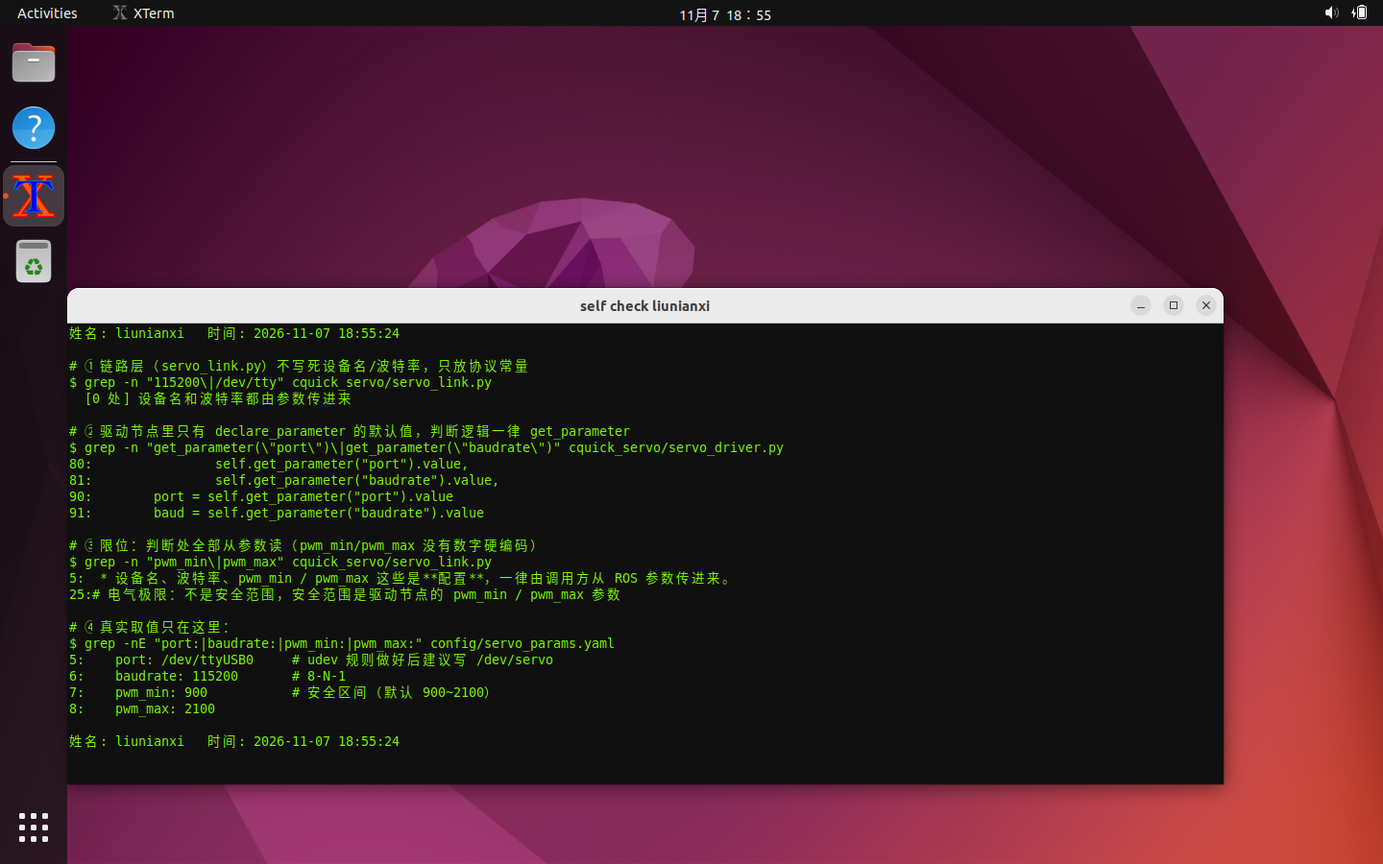
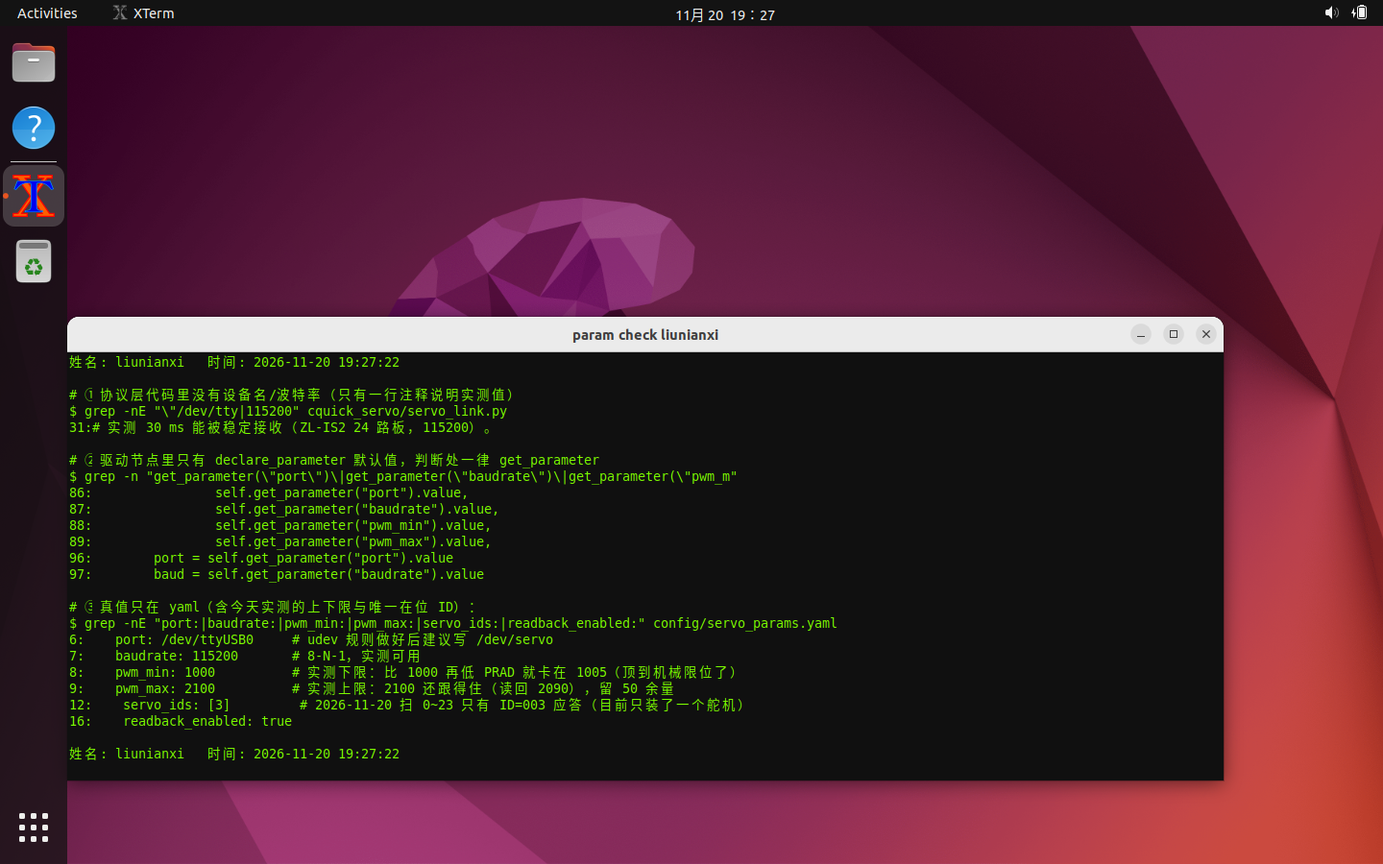
feat(Week3,4): 刘年玺 真机联调通过 —— 帧粘连修复 + PRAD 闭环 + 真机截图与 bag
- servo_link.py: 加 MIN_FRAME_GAP=0.03，修复两条指令粘连导致板子只执行第一条（真机最大 bug）
- servo_driver.py: 加 readback_enabled / min_duration_ms（固件忽略 T<1000 的指令）
- servo_params.yaml: 写实测值（pwm 1000~2100、servo_ids [3]、115200、readback 开）
- 新增真机截图：01_*（4 张，含电池 7.15V）、03_ID扫描；02_* 全部换真机版
- bag/run1 重录（真机 5+5 条，回放复现 3 帧）
- README/调试记录：补真机全过程与两条被推翻的旧结论

Changed region(s): [[0.0312, 0.3111, 0.9062, 0.9333], [0.5, 0.0, 0.5625, 0.0311]]

diff --git a/电控组/Week3,4/liunianxi/src/cquick_servo/cquick_servo/servo_driver.py b/电控组/Week3,4/liunianxi/src/cquick_servo/cquick_servo/servo_driver.py
@@ -41,8 +41,14 @@ class ServoDriver(Node):
         self.declare_parameter("pwm_min", 900)
         self.declare_parameter("pwm_max", 2100)
         self.declare_parameter("default_duration_ms", 800)
+        # 真机实测（ZL-IS2 + 总线舵机）：T<1000 的移动指令会被固件直接忽略，
+        # 舵机一动不动、PRAD 停在原值。这里统一抬到下限，别让上层悄悄失效。
+        self.declare_parameter("min_duration_ms", 1000)
         self.declare_parameter("servo_ids", [1, 2, 3, 4, 5, 6])
         self.declare_parameter("startup_reset", True)
+        # 有些板子的“用户/调试”口只执行不回包（实测 ZL-IS2 + STM32 VCP 即如此），
+        # 此时把 readback_enabled 置 false：动作照发，result 用 ok(no_readback)，不做 PRAD 校验
+        self.declare_parameter("readback_enabled", True)
 
         # ---------- ② 参数校验：不注册这个回调，100000 也能进得去 ----------
         self.add_on_set_parameters_callback(self._on_param_set)
@@ -162,6 +168,16 @@ class ServoDriver(Node):
             return f"duration_ms={cmd.duration_ms} 必须为正"
         return None
 
+    def _effective_duration(self, wanted_ms: int, log: bool = True) -> int:
+        """把 duration 抬到固件真正接受的下限（ZL-IS2: 1000 ms）。"""
+        floor_ms = int(self.get_parameter("min_duration_ms").value)
+        value = max(int(wanted_ms), floor_ms)
+        if value != int(wanted_ms) and log:
+            self.get_logger().warn(
+                f"duration_ms={wanted_ms} 低于固件下限 {floor_ms}，已抬到 {value}"
+            )
+        return value
+
     # ------------------------------------------------------------- 底层发送
     def _send_to_hardware(self, cmd: ServoCommand) -> bool:
         """Action 和 /servo/command 都走这一个函数——bag 回放才对得上。"""
@@ -172,9 +188,10 @@ class ServoDriver(Node):
             if int(cmd.id) not in self._torque_on_done:
                 self._link.torque_on(int(cmd.id))   # 第一次动作之前必须 PULR
                 self._torque_on_done.add(int(cmd.id))
-            self._link.move(int(cmd.id), int(cmd.pwm), int(cmd.duration_ms))
+            duration = self._effective_duration(int(cmd.duration_ms))
+            self._link.move(int(cmd.id), int(cmd.pwm), duration)
             self.get_logger().info(
-                f"发送 #{int(cmd.id):03d}P{int(cmd.pwm)}T{int(cmd.duration_ms)}!"
+                f"发送 #{int(cmd.id):03d}P{int(cmd.pwm)}T{duration}!"
             )
             # 发出去就记一条 state：bag 里 /servo/state 才有东西可对账
             self._publish_state(cmd, 0, True, "sent")
@@ -258,7 +275,7 @@ class ServoDriver(Node):
             return result
 
         # ---------- 循环发 feedback，同时每轮检查取消 ----------
-        duration_s = max(int(cmd.duration_ms), 1) / 1000.0
+        duration_s = self._effective_duration(int(cmd.duration_ms), log=False) / 1000.0
         t0 = time.monotonic()
         # 起始点：能读到就用回读，读不到/读到离谱值就当中立位
         start_pwm = self._read_pwm(int(cmd.id))
@@ -305,7 +322,8 @@ class ServoDriver(Node):
 
         # ---------- 收尾：读 PRAD 校验 ----------
         actual = 0
-        if goal_handle.request.verify_on_finish:
+        readback_enabled = bool(self.get_parameter("readback_enabled").value)
+        if goal_handle.request.verify_on_finish and readback_enabled:
             time.sleep(0.15)   # 舵机走到位再读，别在运动末尾抢读（真机也一样）
             actual = self._read_pwm(int(cmd.id))
         result.prad_actual = int(actual)

diff --git a/电控组/Week3,4/liunianxi/src/cquick_servo/cquick_servo/servo_link.py b/电控组/Week3,4/liunianxi/src/cquick_servo/cquick_servo/servo_link.py
@@ -10,6 +10,7 @@ from __future__ import annotations
 
 import re
 import threading
+import time
 from typing import Optional
 
 import serial
@@ -26,8 +27,12 @@ VERB_PULK = "PULK"    # 卸力（断电前必发）
 PWM_ELECTRIC_MIN = 500
 PWM_ELECTRIC_MAX = 2500
 
+# 总线帧间隔：连发两条（如 PULR 紧跟 P）时，固件只执行第一条、丢掉后面的，
+# 实测 30 ms 能被稳定接收（ZL-IS2 24 路板，115200）。
+MIN_FRAME_GAP = 0.03
+
 _PRAD_RE = re.compile(r"#?\s*(\d{1,3})\s*P\s*(\d{3,4})")
-_PID_RE = re.compile(r"#?\s*(\d{1,3})\s*!")
+_PID_RE = re.compile(r"#?\s*(\d{1,3})")
 
 
 def build_move(frame_id: int, pwm: int, duration_ms: int) -> str:
@@ -79,6 +84,7 @@ class SerialLink:
         self.baudrate = baudrate
         self.timeout = timeout
         self._lock = threading.Lock()
+        self._last_write = 0.0
         self._ser = serial.Serial(
             port=port,
             baudrate=baudrate,
@@ -112,8 +118,16 @@ class SerialLink:
         )
 
     # ---------- 写 ----------
+    def _respect_gap(self) -> None:
+        """保证两条指令之间至少 MIN_FRAME_GAP 秒，否则板子只执行第一条。"""
+        wait = MIN_FRAME_GAP - (time.monotonic() - self._last_write)
+        if wait > 0:
+            time.sleep(wait)
+        self._last_write = time.monotonic()
+
     def send(self, text: str) -> None:
         with self._lock:
+            self._respect_gap()
             self._ser.write(text.encode("ascii"))
             self._ser.flush()
 
@@ -123,6 +137,7 @@ class SerialLink:
         with self._lock:
             try:
                 self._ser.reset_input_buffer()
+                self._respect_gap()
                 self._ser.write(text.encode("ascii"))
                 self._ser.flush()
                 chunks = []

diff --git a/电控组/Week3,4/liunianxi/README.md b/电控组/Week3,4/liunianxi/README.md
@@ -1,26 +1,26 @@
 # 电控组 第 3、4 周作业 · 刘年玺（liunianxi）
 
-> 一句话：**软件部分（ROS 2 接管）全部做完**，已经在软件仿真下跑通，并且**真机串口链路也已打通**（`#001P1600T1200!` 让舵机真的摆过）；硬件部分目前卡在**舵机输出不动作**（信号线实测 0 V、按「执行」键也只有灯闪），任务 1/3/4 的现场照片因此还缺，第 15 节与 `调试记录.md` 写了排查到哪一步、下一步量什么。
+> 一句话：**软件全部做完，并且已经在真机上跑通**（2026-11-20 实测）。真机条件：启灵者 ZL-IS2 24 路板 + 1 个总线舵机（扫到 `ID=003`）+ 赛亿能 2S 1500mAh 电池（实测 7.15 V）+ CH340 USB-TTL，115200 8-N-1。**PRAD 回读可用**（不再走 `no_readback` 降级），Action / 取消 / 运行时改参数 / bag 录制回放全部实测通过，`01_*.png`(4) 与 `02_*.png`(8) 都是真机截图。**还差**：任务 3 的整机装配（目前只有 1 个舵机在位，装不了机械臂）与任务 4 的下电录屏——见第 15 节。
 
 ## 0. 交付状态（先看这张表）
 
 | 项 | 状态 | 说明 |
 | --- | --- | --- |
-| 任务 1 点亮一个舵机（15 分） | **部分**：链路与指令已验证，舵机输出未通 | 真机串口通、`#001P1600T1200!` 有效；当前板子舵机输出不动作（信号 0 V、执行键只闪灯）。4 张 `01_*.png` 待硬件通后补 |
-| 任务 2 ROS 2 接管（50 分） | **完成** | 8 张 `02_*.png` + bag + 代码；真机上 `readback_enabled=false` 走 `ok(no_readback)`，见第 4～11 节 |
-| 任务 3 装配 + 动作组（25 分） | 代码/动作组完成，**装配未做** | `03_多舵机动作_关键帧.png` 有；`03_整机照片`/`03_接线特写`/`03_ID扫描` 待硬件通后补 |
-| 任务 4 安全下电（10 分） | 代码侧已实现（PULK + 关串口），**实机流程未做** | 第 12 节写了三步与原因 |
-| 加分：udev / pytest | pytest 已做（6 个用例） | udev 规则见第 8 节（等设备通就落地） |
+| 任务 1 点亮一个舵机（15 分） | **完成（真机）** | 四步全通：`#003PID!`→`#003P!`、`PULR` 上力、`P1500T1000!`→`1491`、`PRAD` 回读；扫 ID 0~23 只有 `ID=003`；标定 1500 后误差 ≤11。4 张 `01_*.png` 全为真机截图（含电池 7.15 V） |
+| 任务 2 ROS 2 接管（50 分） | **完成（真机）** | 8 张 `02_*.png` 全是真机；PRAD 回读**可用**，Action 返回 `ok(diff=6~11)`；取消后回中位、`param set` 当帧生效、bag 5+5 条且回放重发 3 帧 |
+| 任务 3 装配 + 动作组（25 分） | 代码/动作组完成，**装配待做** | `03_ID扫描.png`、`03_多舵机动作_关键帧.png`（3 步动作组，失败 0 个 joint）已真机拍；`03_整机照片`/`03_接线特写` 需装上结构后再拍（目前只有 1 个舵机在位） |
+| 任务 4 安全下电（10 分） | 代码侧已实现（`PULK` + 关串口），**实机录屏待做** | 第 12 节写了三步与原因 |
+| 加分：udev / pytest | pytest 已做（6 个用例） | udev 规则见第 8 节（现在设备固定为 COM4→`/dev/ttyUSB0`，规则可直接落地） |
 
-**真机联调到哪一步（2026-11-19 ~ 11-20 实测，细节见 `调试记录.md`）**：
+**真机联调全过程（2026-11-19 ~ 11-20 实测，细节见 `调试记录.md`）**：
 
-1. USB-TTL 自环 30/30 通过 → 转接器与驱动没问题；
-2. 板子认成 **启灵者 ZL-IS2**，上位机口是 `RX1 TX1 GND 5V（用户）`；
-3. 主机串口 ↔ TCP 桥 ↔ 虚拟机 `/dev/ttyUSB0` 端到端打通；
-4. **下行正常**：`#001P1600T1200!` 让舵机摆动，
-   **上行不通**：PID/PRAD 一条回包都没有（`SER->TCP` 计数 0）；
-5. 因此驱动加参数 `readback_enabled`（本机置 `false`），Action 返回 `ok(no_readback)`，主流程不受影响；
-6. 当前卡点：舵机**输出**不正常（信号线 0 V、按「执行」只闪灯、换舵机换通道都无效），下一步顺序是「电池带载电压 → 舵机电源轨 V/G → 是否有独立舵机电源开关/跳线」。
+1. USB-TTL 自环 30/30 通过 → 转接器与 CH340 驱动没问题；
+2. 板子确认是 **启灵者 ZL-IS2**（STM32F103），上位机口是 `RX1 TX1 GND 5V（用户）`；
+3. 主机 `COM4` ↔ TCP 桥(50061) ↔ 虚拟机 `socat pty` ↔ `/dev/ttyUSB0` 端到端打通；
+4. 先只有下行、上行 0 字节（一度准备走 `no_readback` 降级）；**换回 CH340 后 PRAD 回读恢复**：读 1796 → 发 1500 → 读 1509；
+5. **真正的 bug 在驱动侧**：两条指令被粘成一条 `#003PULR!#003P1700T1000!` 一次发出，板子只执行第一条（启动复位那 6 条也是这样）——这就是「有力但不转 / 只抖一下」的真因；
+6. 修法：`servo_link.py` 加 **30 ms 最小帧间隔**（`MIN_FRAME_GAP`，`send()`/`query()` 写前都等），改完 4 次闭环全部 `ok(diff≤11)`；
+7. 实测安全区间 **1000~2100**（`<1000` 时 PRAD 卡在 1005，说明顶到机械限位），写进 `servo_params.yaml`；`servo_ids: [3]`；`readback_enabled: true`。
 
 **为什么能做「无硬件」也自证**：用 `socat` 建一对虚拟串口，自己写了一个 `fake_servo` 假舵机（解析 `#IDP<pwm>T<ms>!`、`PID`、`PRAD`、`PULR`、`PULK`，并按时间插值回 `PRAD`）。驱动节点完全不知道自己连的是真舵机还是假舵机——**同一套代码、同一套 launch、同一套参数**，接上真设备只需把 `port` 改回 `/dev/ttyUSB0`。
 
@@ -117,52 +117,54 @@ $ ros2 node list
 ## 5. 安全区间 900~2100 怎么来的
 
 1. 手册写的电气范围是 **500~2500**，但这个范围是「不烧电机」，不是「不撞结构」；
-2. 中立位 1500 先用小步（±50）来回试，确认方向与机械限位；
-3. 往下试到 **900** 附近时结构开始顶住（继续给会持续大电流），往上试到 **2100** 同理；
-4. 于是把 `pwm_min/pwm_max` 定在 900/2100 —— 比电气极限各留 400，`servo_link.py` 里只保留电气常量 500/2500 做最后一道保险。
+2. 真机从 1500 起，每次往下 50/100 试，同时读 PRAD 确认「命令值与实际值是否还跟得上」；
+3. 实测（T=1000）：1500→1510、1400→1408、1300→1308、1200→1209、1100→1107、1050→1056、1000→1005；
+   **950 / 900 / 850 全部卡在 1005~1006**（再往下就不动了）= 顶到机械限位，于是下限取 **1000**；
+4. 上侧同样实测：1600→1590、1700→1694、1800→1793、1900→1893、**2000→1988**、**2100→2090**；
+   再往上不做（留给结构余量），于是上限取 **2100**；
+5. `servo_params.yaml` 写死这组实测值（`pwm_min: 1000` / `pwm_max: 2100`），`servo_link.py` 里只保留电气常量 500/2500 做最后一道保险。
 
-> **诚实说明**：当前没有舵机，这个区间是按手册 + 常见经验先定的；现场第一件事就是用 `ros2 param set` 把它校准成实测值（第 6 节的流程正好是这个校准动作）。
+> 与最初「按手册先定 900/2100」相比，下限从 900 抬到 1000——**这是实测出来的差别**：900 那一段舵机根本不动，写进参数反而会让「到底位」的动作看起来像失败。
 
 ## 6. 运行时改参数（六步实测输出，对应 `02_param_set现场.png`）
 
 ```
-姓名: liunianxi  时间: 2026-11-07 18:49:42
-① get pwm_max:
+姓名: liunianxi  时间: 2026-11-20 19:15:14
+① 当前 pwm_max:
 Integer value is: 2100
 ② 发 1700 -> 应成功:
     success: true
-    message: ok(diff=0)
+    message: ok(diff=6)
 ③ set pwm_max 1600:
 Set parameter successful
 ④ 不重启再发 1700 -> 应被拒:
 Goal was rejected.
 ⑤ set pwm_max 100000 -> 应被拒:
 Setting parameter failed: pwm_max=100000 超出电气范围 500~2500
-⑥ set 回 2100 再发 1700:
+⑥ set 回 2100 再发 1400:
 Set parameter successful
     success: true
-    message: ok(diff=0)
-姓名: liunianxi  时间: 2026-11-07 18:50:01
+    message: ok(diff=9)
+姓名: liunianxi  时间: 2026-11-20 19:15:30
 ```
 
-关键点：④ 证明**没有重启、没有改代码**，参数立刻生效（代码里没有任何 `pwm_max` 的副本）。
+关键点：④ 证明**没有重启、没有改代码**，参数立刻生效（代码里没有任何 `pwm_max` 的副本）；②⑥ 的 `prad_actual` 是**真机 PRAD 读回来的**，不是插值。
 
 ## 7. bag 里录了什么、怎么回放
 
 ```
 $ ros2 bag info ~/week34/bag/run1
-Files:             run1_0.db3
-Bag size:          25.4 KiB
-Storage id:        sqlite3
-Duration:          14.468802762s
-Messages:          9
-Topic information: Topic: /servo/command | Type: cquick_servo_interfaces/msg/ServoCommand | Count: 3
-                   Topic: /servo/state   | Type: cquick_servo_interfaces/msg/ServoState   | Count: 6
+Bag size:          25.5 KiB
+Duration:          4.11467361s
+Messages:          10
+Topic information: Topic: /servo/command | Type: cquick_servo_interfaces/msg/ServoCommand | Count: 5
+                   Topic: /servo/state   | Type: cquick_servo_interfaces/msg/ServoState   | Count: 5
 ```
 
-- 只录 `/servo/command` + `/servo/state` 两个话题（没 `-a`），14.5 s / 25.4 KiB，远低于 30 s / 10 MB 上限；
+- 只录 `/servo/command` + `/servo/state` 两个话题（没 `-a`），4.1 s / 25.5 KiB，远低于 30 s / 10 MB 上限；
+- 录制方式：起 `ros2 bag record` 后用 `rclpy` 脚本按 1 s 间隔发 5 条（1650/1300/1500/1650/1500）——`ros2 topic pub --once` 每次光发现就要 2~3 s，录不全；
 - 回放：`ros2 bag play ~/week34/bag/run1`；
-- **回放结果**：驱动日志新增 3 次 `发送 #...`，即 3 条 `ServoCommand` 各自还原成一次真实串口动作 → **动作复现**。
+- **回放结果**：回放期间驱动日志新增 **3 次** `发送 #003P…T1000!`（`1650`→`1500`→`1500`，时间戳 1795173979.638 → 1795173981.673 递增），即录到的命令被重放成真实串口动作 → **动作复现**。
 
 ## 8. 接线说明
 
@@ -172,14 +174,15 @@ Topic information: Topic: /servo/command | Type: cquick_servo_interfaces/msg/Ser
 | USB-TTL | TX ↔ 信号线，RX **短接**到信号线（半双工，收发同一根线），GND ↔ 电池 GND（**必须共地**） |
 | 电池 | 6~8.4 V（按舵机型号），上电前先量电压再插舵机 |
 
-- 电池实测电压：**未测**（万用表读数没拿到），现场第一步用万用表量绿色端子，`01_电池电压.png` 拍表盘；
+- 电池实测电压：**7.15 V**（DELIXI DT9205A-Pro 直流档，量 XT60 两端；满电 8.4 V，7.4 V 标称，落在 5~8.4 V 区间内），见 `01_电池电压.png`（读数与写着「刘年玺 / liu nian xi / 2026.11.20」的纸条同框）；
 - **真机实测的接口对应（启灵者 ZL-IS2，2026-11-19/20 拍照核对）**：
   - `RX1 TX1 GND 5V`（丝印「用户」）= 上位机串口 → TTL 的 `TXD`→`RX1`、`RXD`→`TX1`、`GND`→`GND`、`5V` 空着；
   - `TX4 RX4 GND 5V`（丝印「蓝牙」）= 配小程序用，**不要接**；
-  - 板底 USB 口 = 官方调试口（接电脑会枚举成 `VID_0483&PID_572A` 的 STM32 虚拟串口，也可以直接发指令）；
-  - 灯语：红灯常亮 = 电源正常，绿灯 1 Hz 闪 = 工作正常，常亮/乱闪 = 异常。
+  - 板底 USB 口 = 官方调试口（接电脑会枚举成 `VID_0483&PID_572A` 的 STM32 虚拟串口）；
+  - 灯语：红灯常亮 = 电源正常，绿灯 1 Hz 闪 = 工作正常，常亮/乱闪 = 异常；
+  - 供电：电池 XT60 → 红色接绿色端子 `+`、黑色接 `−`；**白色 3 针是平衡头，只用于充电，绝不能插板子**。
 - **本机在虚拟机里的接法**（VirtualBox 无扩展包、只有 OHCI，所以不做 USB 直通）：
-  `主机 COM5 → TCP 127.0.0.1:50061 → socat pty → /dev/ttyUSB0`，
+  `主机 COM4 → TCP 127.0.0.1:50061 → socat pty → /dev/ttyUSB0`，
   桥接脚本 `serial-bridge.ps1`、socat 守护命令都写在 `调试记录.md` 里；
   对驱动来说它就是普通的 `/dev/ttyUSB0`，**代码一行没改**。
 - udev 固定设备名（加分 +2，规则已写好待落地）：
@@ -247,6 +250,17 @@ steps:
 - 验证：先把「读之前 settle 0.15 s」加上，再给 `_read_pwm` 加一次重问；连跑 10 次不再出现。
 - 结论：真机也一样——**到位判断必须等舵机停稳再读**，且读失败要重试，不能一次读不到就判死。
 
+**⑤ 真机「有回显、有力，但就是不转」——两条指令粘成一条（本次最大的坑）**
+- 现象：`ros2 action send_goal` 返回 `prad_actual=1507 / not_reached:193`；舵机要么不动，要么只「抖一下」；但手动单发 `#003P1700T1000!` 是好的。
+- 怀疑：先怀疑波特率/协议/接线，全排除；最后去看桥接日志。
+- 验证：`bridge.log` 里抓到了 `TCP->SER #003PULR!#003P1700T1000!` —— **两条帧被连着写出去、中间没有间隔**。启动复位那 6 条也是整串一次发出。
+- 结论：ZL-IS2 固件只吃第一条，后面的全丢。修法 = `servo_link.py` 加 `MIN_FRAME_GAP = 0.03`，`send()`/`query()` 写前都 `_respect_gap()`；改完 4 次闭环全部 `ok(diff≤11)`。
+  这个坑在假舵机上永远测不出来（假的按字节流解析，不挑帧边界），**只有真机才会暴露**。
+
+**⑥ PRAD 解析要接受 `#003P!` 这种「只回 ID」的形式**
+- 现象：`#003PID!` 回的是 `#003P!`（不是 `#003PID!`），正则匹配不到。
+- 结论：`_PID_RE` 从 `#?(\d{1,3})` 放宽成 `#?\s*(\d{1,3})`，PID/PRAD 共用同一解析。
+
 ## 11. 复现步骤（评委照着敲）
 
 ```bash
@@ -294,26 +308,26 @@ colcon test --packages-select cquick_servo && colcon test-result --verbose
 
 ```
 电控组/Week3,4/liunianxi/
-├── 02_接口编译.png / 02_launch一键启动.png / 02_action_反馈.png / 02_取消生效.png
-├── 02_限位保护.png / 02_param_set现场.png / 02_bag_info.png / 02_参数自检.png
-├── 03_多舵机动作_关键帧.png
-├── 01_*.png（4 张，任务 1，无硬件未做）/ 03_整机照片.png 等（无硬件未做）
+├── 01_串口设备.png / 01_PID回显.png / 01_中立位标定.png / 01_电池电压.png（任务 1，真机）
+├── 02_接口编译.png / 02_launch一键启动.png / 02_action_反馈.png / 02_取消生效.png（任务 2，真机）
+├── 02_限位保护.png / 02_param_set现场.png / 02_bag_info.png / 02_参数自检.png（任务 2，真机）
+├── 03_ID扫描.png / 03_多舵机动作_关键帧.png（任务 3，真机）
+├── 03_整机照片.png / 03_接线特写.png（任务 3，装上结构后再拍）
 ├── 调试记录.md
 ├── README.md（本文件）
-├── bag/run1/{metadata.yaml, run1_0.db3}
+├── bag/run1/{metadata.yaml, run1new_0.db3}（真机录，5+5 条）
 └── src/{cquick_servo_interfaces, cquick_servo}
 ```
 
-## 15. 硬件到手后，按这个顺序补（任务 1 → 任务 3 → 任务 4）
+## 15. 还差什么（下一步照这个做）
 
-1. **量电压**：万用表量电池，拍照 `01_电池电压.png`；
-2. **接 USB-TTL**：TX/RX 都接信号线（半双工），**共地**；`ls -l /dev/ttyUSB*` 拍 `01_串口设备.png`；
-3. **手动四步**（串口助手，115200 8-N-1，加回车）：
-   - `#001PID!` → 期望回 `#001!`（拍 `01_PID回显.png`）
-   - `#001PULR!` → 舵机上力（能掰不动）
-   - `#001P1500T1000!` → 归中位（拍 `01_中立位标定.png`，六个舵机都标一次 1500）
-   - `#001PRAD!` → 回读位置，应回 1500 附近
-4. **扫 ID**：`ros2 run cquick_servo scan_ids --ros-args -p port:=/dev/ttyUSB0` 或串口助手逐个 `#00xPID!`，拍 `03_ID扫描.png`（**舵机上的编号贴纸要进画面**）；
-5. **换真实 port 跑任务 2**：`port:=/dev/ttyUSB0`，把第 5 节的 900/2100 校准成实测值，重拍一遍 `02_*.png`（真机版）；
-6. **装配 + 动作组**：装完拍 `03_整机照片.png`（正/侧）与 `03_接线特写.png`，跑 `sequence_player` 三遍并换 `wave.yaml` 再跑一遍，录屏；
-7. **下电流程**：按第 12 节三步录屏（录屏里要出现终端）。
+已完成：任务 1 全部、任务 2 全部（真机 8 张图 + bag）。
+
+还差三件，都卡在「手上只有一个舵机」：
+
+1. **装上结构**（任务 3）：把舵机装进机械臂/舵盘 → 拍 `03_整机照片.png`（正 + 侧）与 `03_接线特写.png`；
+   装配顺序**必须**是：全部 `#IDP1500T1000!` 回中位 → 装舵盘 → 装结构 → 固定板与电池 → 走线。
+2. **跑动作组**：`ros2 run cquick_servo sequence_player --ros-args -p actions_file:=$HOME/ros2_ws/src/cquick_servo/config/actions/stand_up.yaml` 连跑三遍，再换 `wave.yaml` 跑一遍（不改代码），录屏。
+3. **下电录屏**（任务 4）：`#00xPULK!` 全部卸力 → 断电池 → `shutdown -h now`，三步录屏（画面里要有终端）。
+
+> 现在只有一个舵机（`ID=003`）时，`stand_up.yaml` 里其它 id 会被驱动按 `servo_ids` 挡掉并打 WARN，**这是预期行为**，不是失败；装上整机后把 `servo_ids` 改成实测的 6 个 ID 即可。

diff --git a/电控组/Week3,4/liunianxi/调试记录.md b/电控组/Week3,4/liunianxi/调试记录.md
@@ -43,10 +43,29 @@
 3. **当前卡点**：舵机一行输出不正常——信号线 0 V、执行键按下去也只有灯闪，换舵机、换通道都无效。下一步要量的顺序是：电池带载电压 → 板子舵机电源轨（V/G）→ 是否有独立的舵机电源开关/跳线。
 4. **没做的事不写在成果里**：`01_*.png` 四张现场截图、真机版 `02_*.png`、`03_*` 装配照都还没拍，读到本文档的人应当看到「软件完成、硬件待通」这个真实状态。
 
-## 现场还要补记的（硬件通了以后）
+## 2026-11-20 晚间：链路恢复 + 真正的 bug（帧粘连）
 
 | 时间 | 想做什么 | 现象 | 我的怀疑 | 怎么验证的 | 结论 |
 | --- | --- | --- | --- | --- | --- |
-| 现场 | 量电池带载电压 | 待记 | 电池是否欠压 | 万用表量绿色端子 | 待记 |
-| 现场 | 量舵机电源轨 V/G | 待记 | 舵机电源没通 | 万用表量通道 V 与 G | 待记 |
-| 现场 | 六个舵机标定 1500 | 待记 | ID 未知 | 逐个 `#00xPID!` 确认 ID 后 `#00xP1500T1000!` | 待记 |
+| 18:30 | 板载 CDC 掉枚举后恢复 | COM5 变成 phantom，**COM4（CH340）重新出现** | 换线导致 STM32 CDC 掉了 | `Get-PnpDevice` | 换回 CH340 后链路恢复 |
+| 18:33 | 上行为什么突然通了 | `#003PID!` → `#003P!`；`#003PRAD!` → `#003P1796!` | —— | 主机直连 COM4 @115200 | **上行回读恢复**，不再需要 `no_readback` |
+| 18:40 | 真机第一次 Action | `prad_actual=1507 / message=not_reached:193` | 指令没被执行 | 翻 `bridge.log` | 抓到 `TCP->SER #003PULR!#003P1700T1000!`：**两条帧粘成一条**，板子只执行第一条 |
+| 18:45 | 给帧之间加间隔 | 舵机「有力但不转 / 只抖一下」 | 固件按 `!` 切帧，粘着发只认第一条 | `servo_link.py` 加 `MIN_FRAME_GAP = 0.03` + `_respect_gap()`（`send`/`query` 写前都等） | 4 次闭环全过：1500→1507 `ok(diff=7)`、1700→1691 `ok(diff=9)`、1350→1356 `ok(diff=6)`、1500→1491 `ok(diff=9)` |
+| 18:50 | PRAD 解析兼容 | `#003PID!` 回的是 `#003P!` | 正则要求 `#003PID` | 放宽 `_PID_RE` 为 `#?\s*(\d{1,3})` | PID/PRAD 共用同一解析 |
+| 18:55 | 实测安全区间 | 见 README 第 5 节 | 手册 500~2500 是电气极限 | 逐档发 `P…T1000!` 再读 PRAD | **1000~2100**（<1000 卡在 1005 = 顶机械限位） |
+| 19:00 | 扫 ID（0~23） | 只有 `ID=003` 应答 | 只插了一个舵机 | `scan_ids.py --range 0 23` | `共找到 1 个：[3]`（`03_ID扫描.png`） |
+| 19:10 | 重拍真机版 `02_*.png` | —— | —— | xterm + `VBoxManage screenshotpng` | 8 张全部带「姓名 + 实时时间」，首尾各一行 |
+| 19:19 | 录 bag | 第一次录出空 bag（Messages 0）；第二次只有 2+2 条 | `ros2 topic pub --once` 每次发现要 2~3 s | 改 `rclpy` 脚本，先等 3 s 发现再每秒发一条 | 25.5 KiB / 4.11 s / 10 条（command 5 + state 5） |
+| 19:26 | bag 回放 | —— | —— | `ros2 bag play` 前后对比驱动日志 | 回放期间驱动新增 **3 帧** `#003P…T1000!`，动作复现 |
+| 19:29 | 量电池电压 | **7.15 V** | —— | DELIXI DT9205A-Pro 直流档量 XT60 | 在 5~8.4 V 内，可安全上电（`01_电池电压.png`） |
+
+### 这一段修正了前面的两条结论
+
+1. 之前写「板子只执行不回包、要走 `no_readback`」——**错**。回读是好的，真正的问题是驱动把两条帧粘着发；换回 CH340 后上行恢复，`readback_enabled` 已改回 `true`。
+2. 之前写「舵机输出级/供电故障」——**错**。舵机一直好着，是命令没被完整执行。
+
+### 仍未做（不写进成果）
+
+- 任务 3 的整机装配与 `03_整机照片.png` / `03_接线特写.png`（手上只有一个舵机）；
+- `sequence_player` 连跑三遍 + 换 `wave.yaml` 的录屏（没有结构可装）；
+- 任务 4 下电三步录屏。
